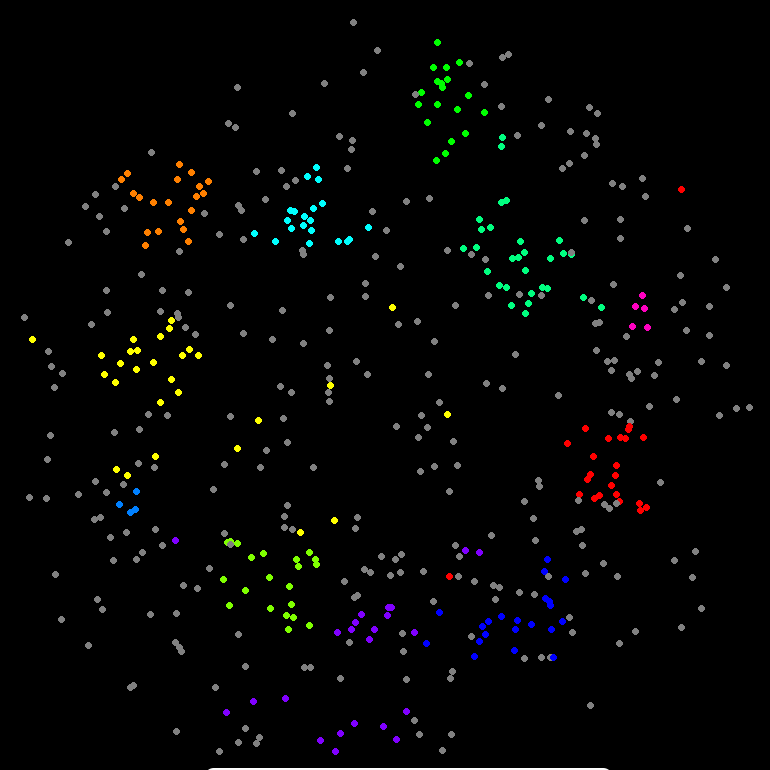
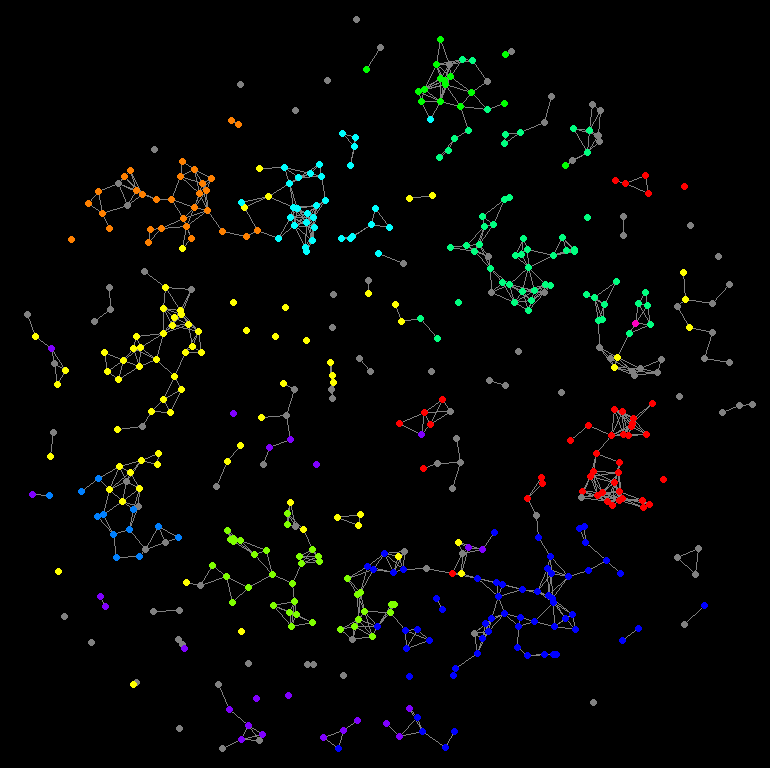
Add drawing of connections

diff --git a/src/nurep.rs b/src/nurep.rs
@@ -162,10 +162,26 @@ fn transform_coord(state: &State, coord: (i32, i32)) -> (i32, i32) {
 
 #[must_use]
 fn draw(renderer: &sdl2::render::Renderer, state: &State) -> sdl2::SdlResult<()> {
+    // Draw background
     let radius = state.draw_size / 175;
     try!(renderer.set_draw_color(sdl2::pixels::RGB(0, 0, 0)));
     try!(renderer.clear());
 
+    // Draw connections
+    for conn in state.game.cluster.connections.iter() {
+        let position_a = transform_coord(state, match state.game.cluster.planets.iter().find(|x| x.id == conn.id_a) {
+            Some(x) => x.position,
+            None => continue,
+        });
+        let position_b = transform_coord(state, match state.game.cluster.planets.iter().find(|x| x.id == conn.id_b) {
+            Some(x) => x.position,
+            None => continue,
+        });
+        let color = pick_color(0);
+        try!(drawing::draw_line(renderer, position_a, position_b, color));
+    }
+
+    // Draw planets
     for planet in state.game.cluster.planets.iter() {
         let owner = match state.game.planet_to_owners.get(&planet.id) {
             Some(turn_to_owner) => match turn_to_owner.get(&state.turn) {

diff --git a/src/drawing.rs b/src/drawing.rs
@@ -4,6 +4,23 @@
 
 extern crate sdl2;
 
+/// Draws a line.
+pub fn draw_line(
+        renderer: &sdl2::render::Renderer,
+        start: (i32, i32),
+        end: (i32, i32),
+        color: sdl2::pixels::Color)
+        -> sdl2::SdlResult<()> {
+    let old_color = try!(renderer.get_draw_color());
+    try!(renderer.set_draw_color(color));
+    let (start_x, start_y) = start;
+    let (end_x, end_y) = end;
+    try!(renderer.draw_line(
+        sdl2::rect::Point { x: start_x, y: start_y },
+        sdl2::rect::Point { x: end_x, y: end_y }));
+    renderer.set_draw_color(old_color)
+}
+
 /// Draws a circle with the specified position, radius and colour.
 pub fn draw_circle(
         renderer: &sdl2::render::Renderer,
